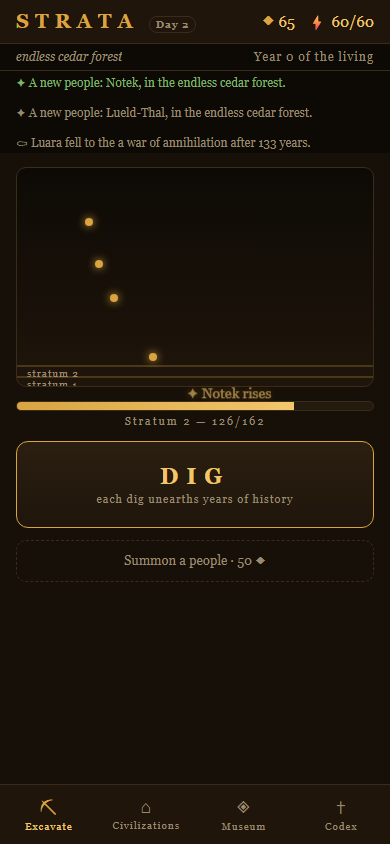
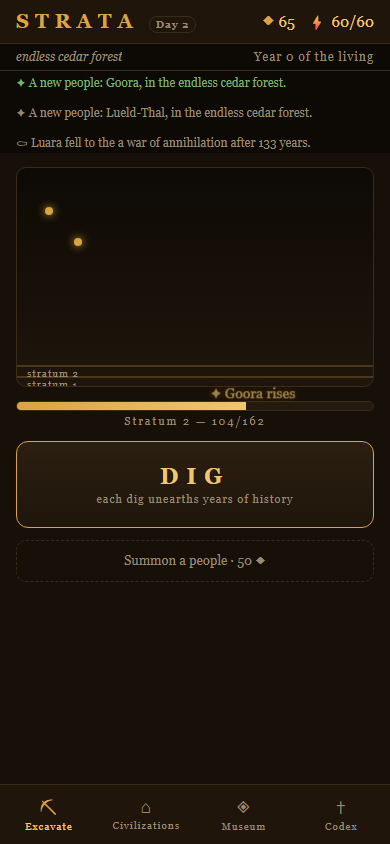
stratum news type, summon click-time validation

diff --git a/app.js b/app.js
@@ -218,6 +218,7 @@ function showNews(n) {
     case 'death': msg = `⚰ ${n.civ} fell to ${n.cause} after ${n.age} years.`; break;
     case 'rise': msg = `✦ A new people: ${n.civ}, in the ${n.theme}.`; break;
     case 'newday': msg = `☀ A new day. The world theme is now: ${n.theme}.`; break;
+    case 'stratum': msg = `⇩ Stratum ${n.level} reached — the dig deepens.`; break;
     case 'gift': msg = n.text; break;
     default: msg = '';
   }
@@ -271,7 +272,7 @@ function doDig() {
     } else if (res.type === 'shards') {
       flash('+' + res.amount + ' ◆ shards');
     } else if (res.type === 'stratum') {
-      showNews({ type: 'newday', theme: 'Stratum ' + res.level + ' reached — deeper now.' });
+      showNews({ type: 'stratum', level: res.level });
       flash('⇩ Stratum ' + res.level);
     }
   }
